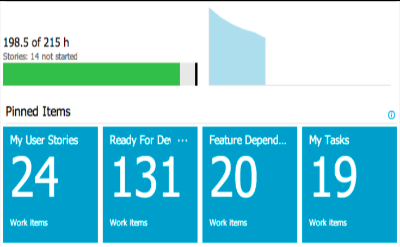
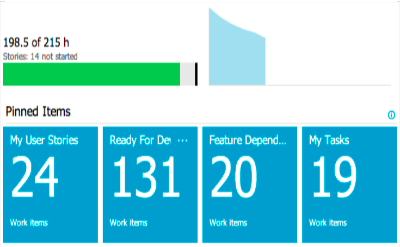
Replaced scrumdashboard image with png and renamed team img

diff --git a/index.html b/index.html
@@ -263,7 +263,7 @@
                                     <i class="fa fa-plus fa-3x"></i>
                                 </div>
                             </div>
-                            <img src="img/let_it_fly_champs.jpg" class="img-responsive experience-img" alt="Let It Fly Champs">
+                            <img src="img/team.jpg" class="img-responsive experience-img" alt="Let It Fly Champs">
                         </a>
                         <div class="portfolio-caption">
                             <h4>Team Builder</h4>
@@ -291,7 +291,7 @@
                                     <i class="fa fa-plus fa-3x"></i>
                                 </div>
                             </div>
-                            <img src="img/ScrumDashboard.png" class="img-responsive experience-img" alt="Scrum Dashboard">
+                            <img src="img/scrumdashboard.jpg" class="img-responsive experience-img" alt="Scrum Dashboard">
                         </a>
                         <div class="portfolio-caption">
                             <h4>Scrum Master</h4>
